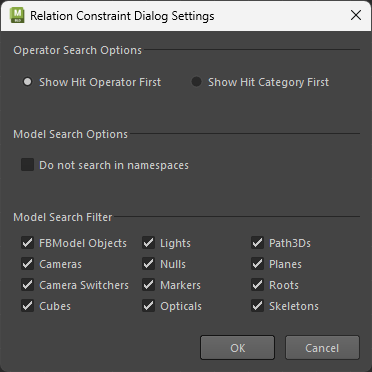
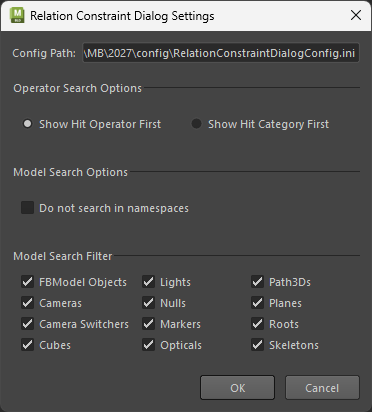
Update plugin version to 3.1 and refine README documentation

diff --git a/README-jp.md b/README-jp.md
@@ -49,7 +49,7 @@ MotionBuilder の Relation Constraint において手軽にオブジェクト配
 
    （例：MotionBuilder 2027 を使用している場合は `...-MB2027.dll` ）
 
-4. 対応する `.dll` ファイルと `RelationConstraintDialogConfig.ini` を既定のプラグインフォルダ（`MotionBuilder <version>/bin/x64/plugins`）にコピー
+4. 対応する `.dll` ファイルを既定のプラグインフォルダ（`MotionBuilder <version>/bin/x64/plugins`）にコピー
 
     （**注意**: `plugins` フォルダへのコピーの際、管理者権限が必要になる場合があります。）
 
@@ -100,50 +100,57 @@ MotionBuilder の Relation Constraint において手軽にオブジェクト配
 
 v3.0 から、検索ダイアログに設定ボタン（ `...` ）が追加され、検索ダイアログの動作のカスタマイズやオンラインヘルプの表示ができるようになりました。
 
-- **Preferences**
+#### 1. Preferences
 
-    設定ボタンを押し、『Preferences...』を選択すると Preferences ダイアログが開きます。
+設定ボタンを押し、『Preferences...』を選択すると Preferences ダイアログが開きます。
 
-    <p align = "center">
-    <img src="docs/images-readme/usage_preferences.png"><br>
-    </p>
+<p align = "center">
+<img src="docs/images-readme/usage_preferences.png"><br>
+</p>
 
-    <p align = "center">
-    <img src="docs/images-readme/usage_preferences_dialog.png"><br>
-    </p>
+<p align = "center">
+<img src="docs/images-readme/usage_preferences_dialog.png"><br>
+</p>
+<br>
 
-    Preferences ダイアログでは、以下の設定を編集できます。
+ダイアログ上部にある LineEdit には設定ファイルのパスが表示されます。LineEdit を右クリックするとコンテキストメニューが開き、パスをクリップボードにコピーしたり、設定ファイルが保存されているフォルダを開いたりできます。
 
-    - **Show Hit Operator First**（デフォルト） / **Show Hit Category First**
+<p align = "center">
+<img src="docs/images-readme/usage_config_path.png"><br>
+</p>
 
-        Operator 名を優先して検索するか、Category 名を優先して検索するかを設定します。<br>
-        『Show Hit Category First』を有効にして「q」と入力した場合、検索結果では「q」で始まる Category（例: "Quaternion"）が検索結果の上位に表示されます。一方『"Show Hit Operator First』を有効にしている場合は「q」で始まる Operator（例: "Converters - Quaternion To Axis Angle"）が上位に表示されます。
+<br>Preferences ダイアログでは、以下の設定を編集できます。
 
-    - **Do not search in namespaces**（デフォルト: OFF）
+- **Show Hit Operator First**（デフォルト） / **Show Hit Category First**
 
-        モデル検索時に namespace を無視するかどうかを設定します。有効にした場合、検索にはモデル名のみが使用され、namespace 名は無視されます。
+    Operator 名を優先して検索するか、Category 名を優先して検索するかを設定します。<br>
+    『Show Hit Category First』を有効にして「q」と入力した場合、検索結果では「q」で始まる Category（例: "Quaternion"）が検索結果の上位に表示されます。一方『"Show Hit Operator First』を有効にしている場合は「q」で始まる Operator（例: "Converters - Quaternion To Axis Angle"）が上位に表示されます。
 
-    - **Model Search Filter**（デフォルト: すべてのフィルタが有効）
+- **Do not search in namespaces**（デフォルト: OFF）
 
-        検索結果に含めるモデルの種類を選択できます。たとえば "Skeletons" を無効にすると、`FBModelSkeleton`型のモデルは検索結果から除外されます。
+    モデル検索時に namespace を無視するかどうかを設定します。有効にした場合、検索にはモデル名のみが使用され、namespace 名は無視されます。
+
+- **Model Search Filter**（デフォルト: すべてのフィルタが有効）
+
+    検索結果に含めるモデルの種類を選択できます。たとえば "Skeletons" を無効にすると、`FBModelSkeleton`型のモデルは検索結果から除外されます。
 
 <br>
 
 > [!NOTE]
-> これらの設定は、プラグインの `.dll` ファイルと同じディレクトリにある `RelationConstraintDialogConfig.ini` ファイルに保存されます。このファイルを手動で編集して設定を変更することもできます。
+> これらの設定は、`%USERPROFILE%\Documents\MB\<version>\config` ディレクトリに生成される `RelationConstraintDialogConfig.ini` ファイルに保存されます。このファイルを手動で編集して設定を変更することもできます。
 
 <br>
 
-- **Online Help**
+#### 2. Online Help
 
-    以下のオンラインリソースが利用可能です。
+以下のオンラインリソースが利用可能です。
 
-    - Relations Reference: Relation Operator の [公式ヘルプ](https://help.autodesk.com/view/MOBPRO/2027/ENU/?guid=GUID-C50152F9-5607-4779-A964-186B4E1A0601)
-    - GitHub Repository: このリポジトリ
+- Relations Reference: Relation Operator の [公式ヘルプ](https://help.autodesk.com/view/MOBPRO/2027/ENU/?guid=GUID-C50152F9-5607-4779-A964-186B4E1A0601)
+- GitHub Repository: このリポジトリ
 
-    <p align = "center">
-    <img src="docs/images-readme/usage_online_help.png"><br>
-    </p>
+<p align = "center">
+<img src="docs/images-readme/usage_online_help.png"><br>
+</p>
 
 <br>
 
@@ -295,7 +302,7 @@ path/to/Qt/bin/uic.exe SearchDialog.ui -o ui_SearchDialog.h
     ```
 
 
-    ビルドされたプラグイン `.dll` ファイルと `RelationConstraintDialogConfig.ini` ファイルが既定のフォルダ `MotionBuilder <version>/bin/x64/plugins` にコピーされます。
+    ビルドされたプラグイン `.dll` ファイルが既定のフォルダ `MotionBuilder <version>/bin/x64/plugins` にコピーされます。
 
     <br>**注意**: Visual Studio Code を使用している場合は、Tasks を使用してこれらのコマンドを実行できます。[tasks.json](./.vscode/tasks.json) を参照してください。
 

diff --git a/README.md b/README.md
@@ -46,7 +46,7 @@ Instead, please use this plugin only for:
 
    (e.g., use `...-MB2027.dll` if you're using MotionBuilder 2027)
 
-4. Copy the corresponding `.dll` file and `RelationConstraintDialogConfig.ini` into the default plugin folder:
+4. Copy the corresponding `.dll` file  into the default plugin folder:
    `MotionBuilder <version>/bin/x64/plugins`
 
     (**Note**: You may need administrator privileges to copy files to the `plugins` folder.)
@@ -99,53 +99,58 @@ You can build the documentation locally using [Doxygen](https://www.doxygen.nl/)
 ### Dialog Settings
 Since v3.0, settings button ( `...` ) has been added to the search dialog, allowing you to customize the behavior of the search dialog and open the online help page.
 
-- **Preferences**
+#### 1. Preferences
 
-    Push the settings button and select "Preferences..." to open the preferences dialog.
+Push the settings button and select "Preferences..." to open the preferences dialog.
 
-    <p align = "center">
-    <img src="docs/images-readme/usage_preferences.png"><br>
-    </p>
+<p align = "center">
+<img src="docs/images-readme/usage_preferences.png"><br>
+</p>
 
-    <p align = "center">
-    <img src="docs/images-readme/usage_preferences_dialog.png"><br>
-    </p>
-    <br>
+<p align = "center">
+<img src="docs/images-readme/usage_preferences_dialog.png"><br>
+</p>
+<br>
 
+The LineEdit on the top of the preferences dialog displays the path of the configuration file. Right click the LineEdit will open the context menu, where you can copy the path to clipboard or open the folder containing the configuration file.
 
-    In the preferences dialog, you can customize the following settings:
+<p align = "center">
+<img src="docs/images-readme/usage_config_path.png"><br>
+</p>
 
-    - **Show Hit Operator First** (default) / **Show Hit Category First**
+<br>In the preferences dialog, you can customize the following settings:
 
-        Whether to search by operator name first or category name first. <br>If "Show Hit Category First" is enabled and you type `q`, the search results will prioritize categories that start with `q` (e.g., "Quaternion"), while if "Show Hit Operator First" is enabled, the search results will prioritize operators that start with `q` (e.g., "Converters - 
+- **Show Hit Operator First** (default) / **Show Hit Category First**
+
+    Whether to search by operator name first or category name first. <br>If "Show Hit Category First" is enabled and you type `q`, the search results will prioritize categories that start with `q` (e.g., "Quaternion"), while if "Show Hit Operator First" is enabled, the search results will prioritize operators that start with `q` (e.g., "Converters - 
 Quaternion To Axis Angle").
 
 
-    - **Do not search in namespaces** (default: OFF)
+- **Do not search in namespaces** (default: OFF)
 
-        Whether to ignore namespaces when searching for models. If enabled, only the model name will be considered for searching, and the namespace name will be ignored.
+    Whether to ignore namespaces when searching for models. If enabled, only the model name will be considered for searching, and the namespace name will be ignored.
 
-    - **Model Search Filter** (default: All filters enabled)
+- **Model Search Filter** (default: All filters enabled)
 
-        You can choose which types of models to include in the search results. For example, if you disable "Skeletons", `FBModelSkeleton` models will be excluded from the search results.
+    You can choose which types of models to include in the search results. For example, if you disable "Skeletons", `FBModelSkeleton` models will be excluded from the search results.
 
 <br>
 
 > [!NOTE]
-> These settings are saved in the `RelationConstraintDialogConfig.ini` file located in the same directory as the plugin `.dll` file. You can also edit this file manually to change the settings.
+> These settings are saved in the `RelationConstraintDialogConfig.ini` file generated in the `%USERPROFILE%\Documents\MB\<version>\config` directory. You can also edit this file manually to change the settings.
 
 <br>
 
-- **Online Help**
+#### 2. Online Help
 
-    The following online resources are available:
+The following online resources are available:
 
-    - Relations Reference: [Official Help](https://help.autodesk.com/view/MOBPRO/2027/ENU/?guid=GUID-C50152F9-5607-4779-A964-186B4E1A0601) of relation operators
-    - GitHub Repository: This repository
+- Relations Reference: [Official Help](https://help.autodesk.com/view/MOBPRO/2027/ENU/?guid=GUID-C50152F9-5607-4779-A964-186B4E1A0601) of relation operators
+- GitHub Repository: This repository
 
-    <p align = "center">
-    <img src="docs/images-readme/usage_online_help.png"><br>
-    </p>
+<p align = "center">
+<img src="docs/images-readme/usage_online_help.png"><br>
+</p>
 
 <br>
 
@@ -299,7 +304,7 @@ path/to/Qt/bin/uic.exe SearchDialog.ui -o ui_SearchDialog.h
     cmake --install build/MotionBuilder2027 --config RelWithDebInfo
     ```
 
-    <br>The built plugin `.dll` file and `RelationConstraintDialogConfig.ini` file will be copied to the default folder `MotionBuilder <version>/bin/x64/plugins`.
+    <br>The built plugin `.dll` file will be copied to the default folder `MotionBuilder <version>/bin/x64/plugins`.
 
     <br>**Note**: If you are using Visual Studio Code, you can use Tasks to run these commands. See [tasks.json](./.vscode/tasks.json) for reference.
 
